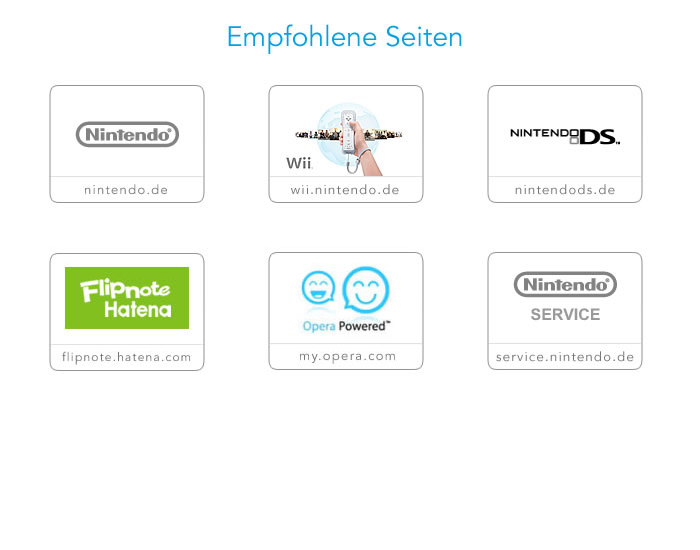
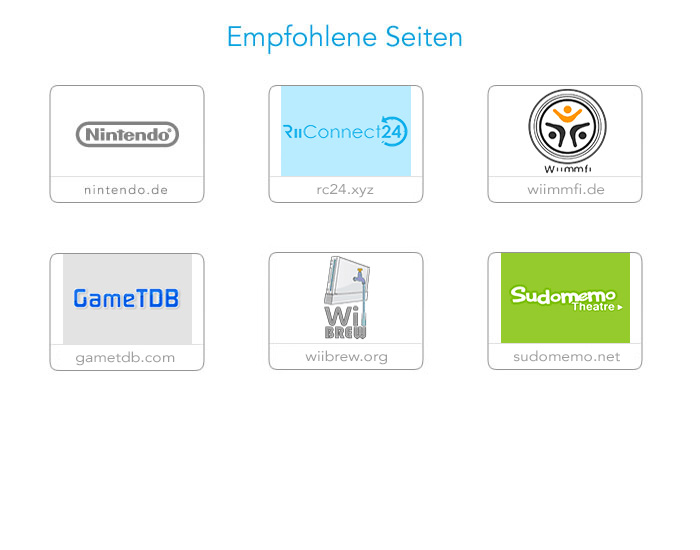
A lot of changes

diff --git a/wiilinks/nlNL.html b/wiilinks/nlNL.html
@@ -26,16 +26,16 @@ td {
 
 <map name="Map">
   <area shape="rect" coords="42,74,212,214" href="http://www.nintendo.nl" onClick="javascript:urchinTracker('/outgoing/NL_Home');">
-  <area shape="rect" coords="261,74,431,214" href="http://wii.nintendo.nl" onClick="javascript:urchinTracker('/outgoing/NL_Wii_Home');">
-  <area shape="rect" coords="480,74,650,214" href="http://www.nintendo.nl/Nintendo-DS/Nintendo-DS-familie-Nintendo-s-officiele-Nederlandstalige-site-Nintendo-DS-Nintendo-DSi-Nintendo-DSi-XL-116380.html" onClick="javascript:urchinTracker('/outgoing/NL_DS_Home');">
-  <area shape="rect" coords="42,242,212,382" href="http://flipnote.hatena.com">
-  <area shape="rect" coords="261,242,431,382" href="http://my.opera.com" onClick="javascript:urchinTracker('/outgoing/NL_MyOpera_Home');">
-  <area shape="rect" coords="480,242,650,382" href="http://support.nintendo.nl" onClick="javascript:urchinTracker('/outgoing/NL_Support_Home');">
+  <area shape="rect" coords="261,74,431,214" href="http://rc24.xyz" onClick="javascript:urchinTracker('/outgoing/NL_RiiConnect24_Home');">
+  <area shape="rect" coords="480,74,650,214" href="http://wiimmfi.de" onClick="javascript:urchinTracker('/outgoing/NL_Wiimmfi_Home');">
+  <area shape="rect" coords="42,242,212,382" href="http://gametdb.com" onClick="javascript:urchinTracker('/outgoing/NL_GameTDB_Home');">
+  <area shape="rect" coords="261,242,431,382" href="http://wiibrew.org" onClick="javascript:urchinTracker('/outgoing/NL_WiiBrew_Home');">
+  <area shape="rect" coords="480,242,650,382" href="http://sudomemo.net" onClick="javascript:urchinTracker('/outgoing/NL_Sudomemo_Home');">
 </map>
 <script src="http://www.google-analytics.com/urchin.js" type="text/javascript">
 </script>
 <script type="text/javascript">
-_uacct = "UA-1340138-24";
+_uacct = "UA-72766480-4";
 urchinTracker();
 </script>
 </body></html>

diff --git a/wiilinks/nlBE.html b/wiilinks/nlBE.html
@@ -26,9 +26,9 @@ td {
 
 <map name="Map">
   <area shape="rect" coords="42,74,212,214" href="http://www.nintendo.be/nl/" onClick="javascript:urchinTracker('/outgoing/NL_Home');">
-  <area shape="rect" coords="261,74,431,214" href="http://www.nintendo.be/nl/Wii/Wii-94559.html" onClick="javascript:urchinTracker('/outgoing/NL_Wii_Home');">
-  <area shape="rect" coords="480,74,650,214" href="http://www.nintendo.be/nl/Nintendo-DS/Nintendo-DS-familie-Nintendo-s-officiele-Nederlandstalige-site-Nintendo-DS-Nintendo-DSi-Nintendo-DSi-XL-116380.html" onClick="javascript:urchinTracker('/outgoing/NL_DS_Home');">
-  <area shape="rect" coords="42,242,212,382" href="http://flipnote.hatena.com">
+  <area shape="rect" coords="261,74,431,214" href="http://rc24.xyz" onClick="javascript:urchinTracker('/outgoing/NL_RiiConnect24_Home');">
+  <area shape="rect" coords="480,74,650,214" href="http://wiimmfi.de" onClick="javascript:urchinTracker('/outgoing/NL_Wiimmfi_Home');">
+  <area shape="rect" coords="42,242,212,382" href="http://gametdb.com" onClick="javascript:urchinTracker('/outgoing/NL_GameTDB_Home');">
   <area shape="rect" coords="261,242,431,382" href="http://my.opera.com" onClick="javascript:urchinTracker('/outgoing/NL_MyOpera_Home');">
   <area shape="rect" coords="480,242,650,382" href="http://support.nintendo.be" onClick="javascript:urchinTracker('/outgoing/NL_Support_Home');">
 </map>
